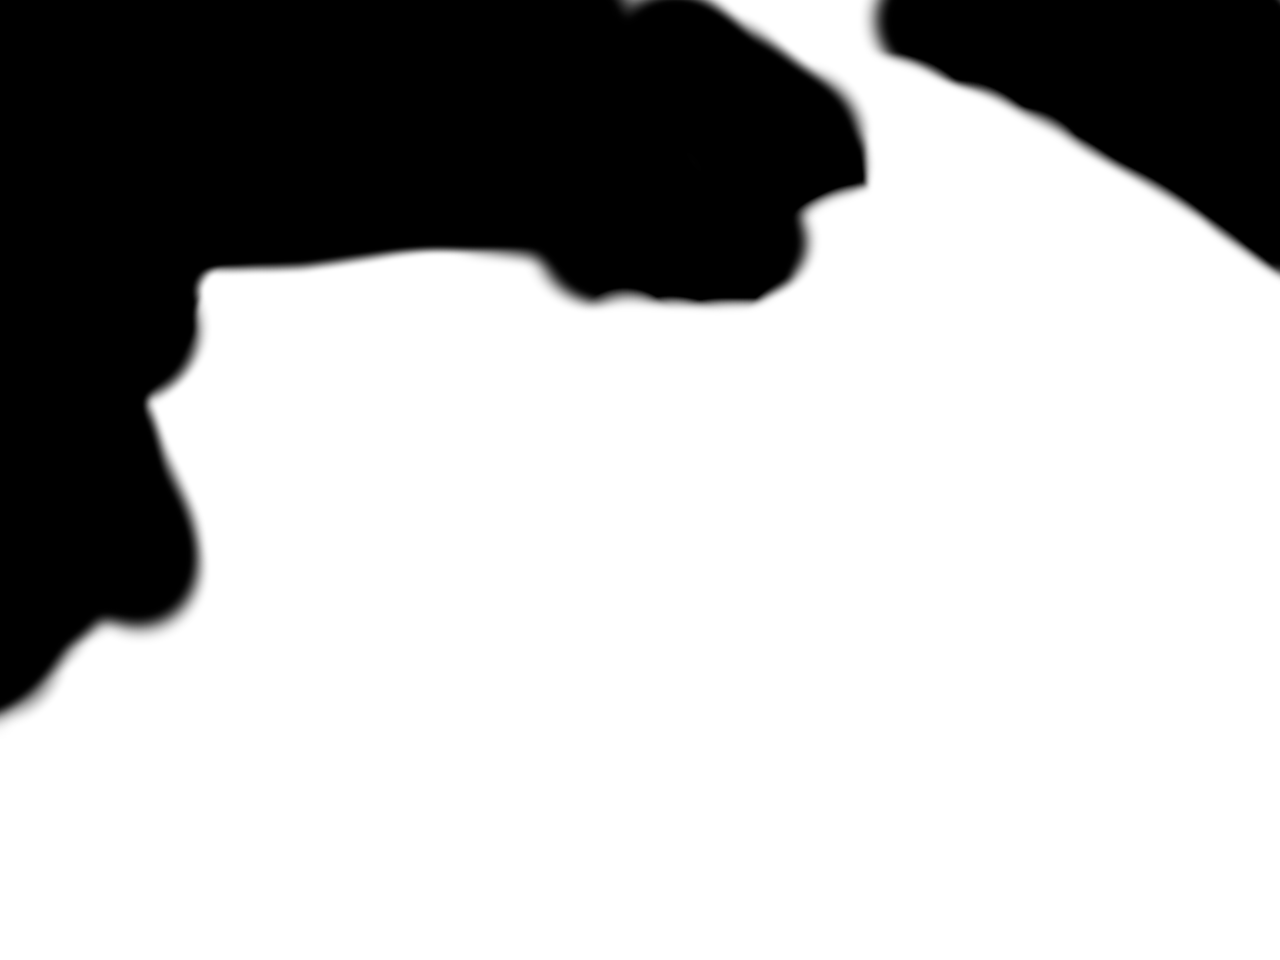
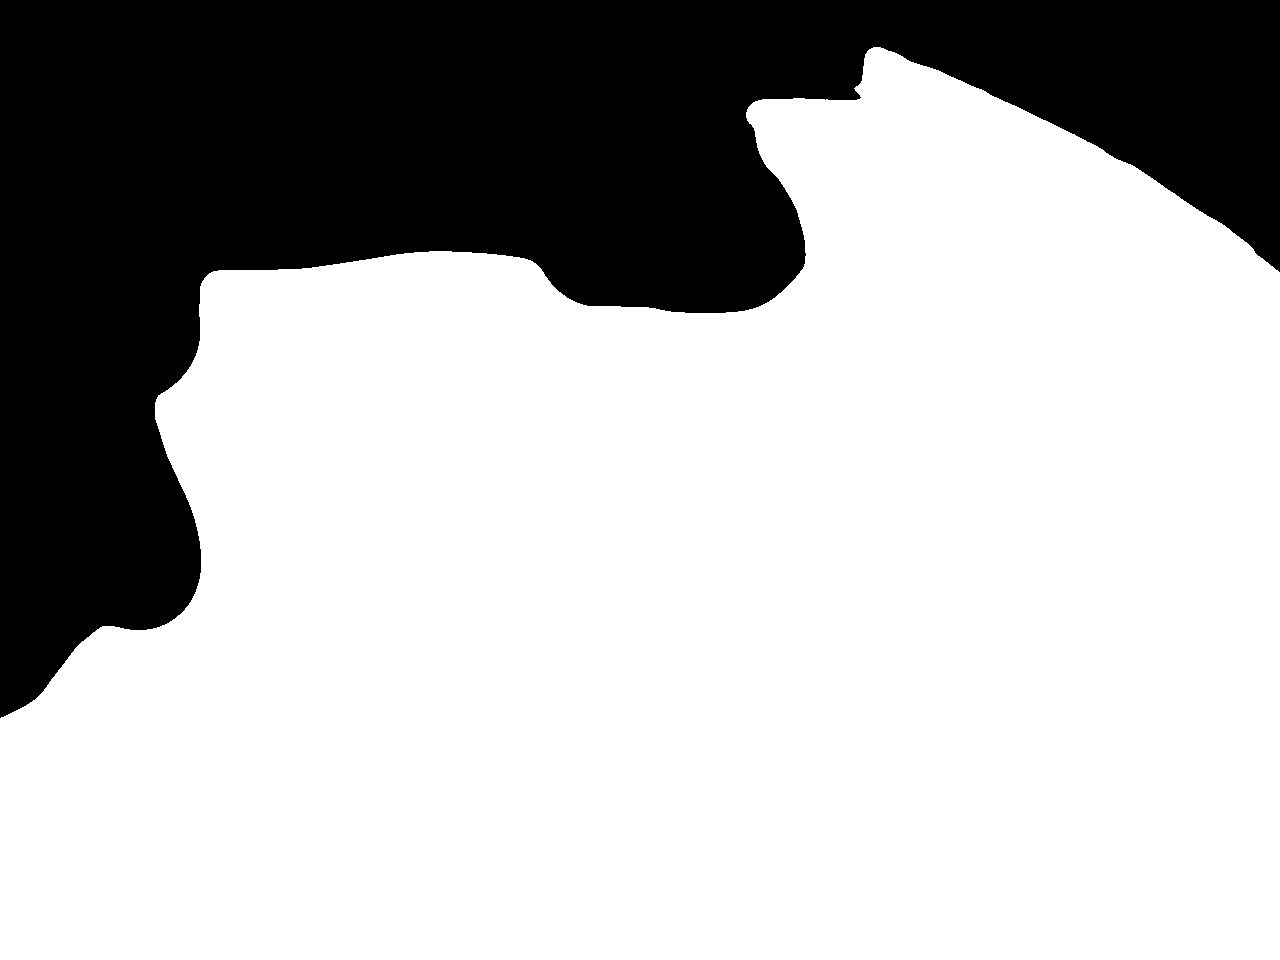
Add better motion detection

diff --git a/motion2.py b/motion2.py
@@ -1,0 +1,62 @@
+from capture_interface import SecurityCapture
+import cv2
+import sys
+import collections
+import numpy as np
+import os
+
+os.makedirs('motion/', exist_ok=True)
+
+frame_offset = 3
+q = collections.deque(maxlen=frame_offset + 1)
+vcap = SecurityCapture(f"rtsp://{sys.argv[1]}@192.168.1.8/", 1)
+# vcap = cv2.VideoCapture(0)
+
+mask = cv2.imread('mask.png')
+mask = cv2.cvtColor(mask, cv2.COLOR_BGR2GRAY)
+mask = cv2.resize(mask, [1280, 960])
+_, mask = cv2.threshold(mask, 127, 255, cv2.THRESH_BINARY)
+
+def end():
+  vcap.release()
+  cv2.destroyAllWindows()
+  exit()
+
+frame_count = 0
+
+while True:
+  frame_count += 1
+  ret, frame_fs = vcap.read()
+  frame_orig = cv2.resize(frame_fs, [1280, 960])
+  frame = cv2.cvtColor(frame_orig, cv2.COLOR_BGR2GRAY)
+  q.append(frame)
+  if len(q) <= frame_offset: continue
+
+  old_frame = q.popleft()
+  diff = cv2.absdiff(frame, old_frame)
+  diff = cv2.bitwise_and(mask, diff)
+  diff = cv2.GaussianBlur(diff, (31, 31), 0)
+  ret, diff = cv2.threshold(diff, 10, 255, cv2.THRESH_BINARY)
+  contours, hr = cv2.findContours(diff, cv2.RETR_EXTERNAL, cv2.CHAIN_APPROX_SIMPLE)
+
+  f_x = frame_fs.shape[1] / frame_orig.shape[1]
+  f_y = frame_fs.shape[0] / frame_orig.shape[0]
+
+  out = frame_orig.copy()
+  for index, contour in enumerate(contours):
+    if cv2.contourArea(contour) < 0: continue
+    x,y = contour.mean(axis=(0,1), dtype=np.int64)
+    box_size = 61
+    start_x, end_x = np.clip([x-box_size, x+box_size], 0, frame_orig.shape[1]-1)
+    start_y, end_y = np.clip([y-box_size, y+box_size], 0, frame_orig.shape[0]-1)
+    fs_start_x, fs_end_x = int(start_x * f_x), int(end_x * f_x)
+    fs_start_y, fs_end_y = int(start_y * f_y), int(end_y * f_y)
+
+    cropped = frame_fs[fs_start_y:fs_end_y, fs_start_x:fs_end_x]
+    cropped = cv2.resize(cropped, [224,224])
+    cv2.imwrite(f"motion/{frame_count}_{index}.jpg", cropped)
+    cv2.rectangle(out, (start_x, start_y), (end_x, end_y), (0,0,255), 2)
+    cv2.imshow('cropped', cropped)
+
+  cv2.imshow('frame', out)
+  if cv2.waitKey(20) == ord('q'): end()
